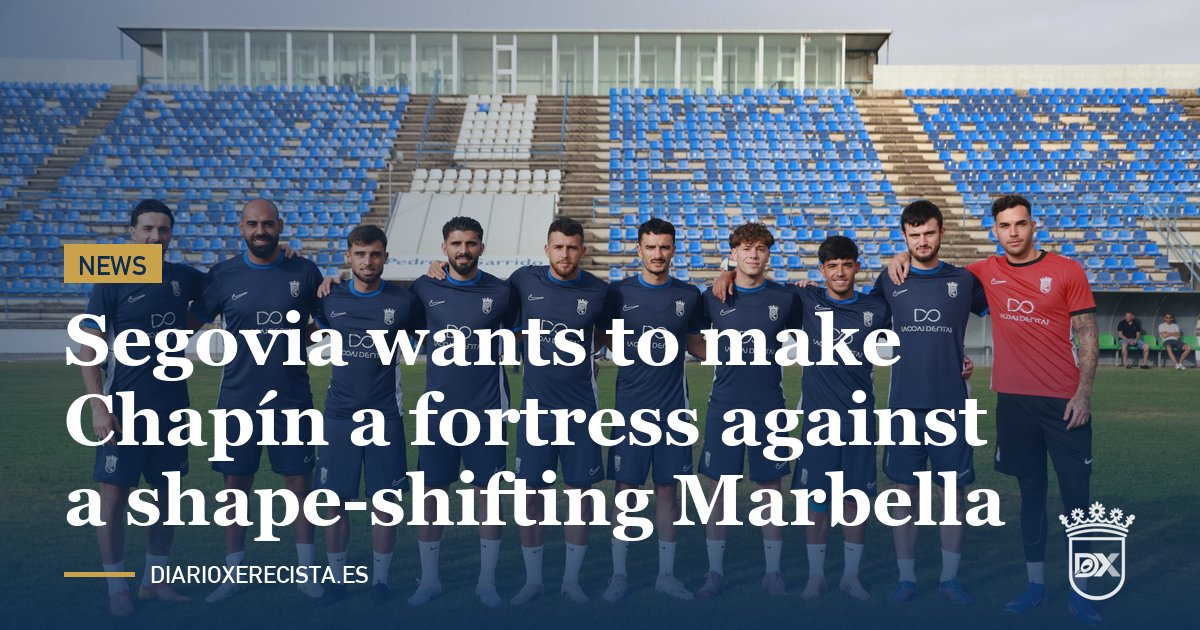
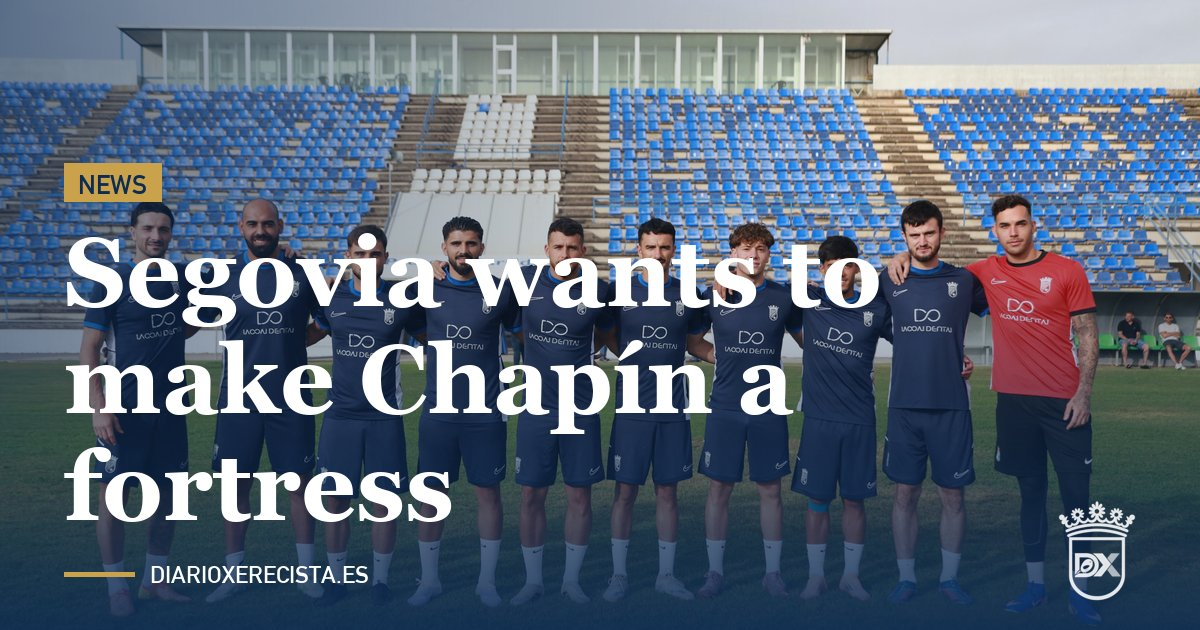
art101: titular más corto, Segovia quiere hacer de Chapín un fortín (ES/EN)

Changed region(s): [[0.0308, 0.3619, 0.8325, 0.8746], [0.0308, 0.2413, 0.1542, 0.3317]]

diff --git a/noticias/articulos/2026-10/segovia-quiere-hacer-de-chapin-un-fortin-ante-un-marbella-que-cambia-de-sistema/index.html b/noticias/articulos/2026-10/segovia-quiere-hacer-de-chapin-un-fortin-ante-un-marbella-que-cambia-de-sistema/index.html
@@ -3,7 +3,7 @@
 <head>
 <meta charset="UTF-8">
 <meta name="viewport" content="width=device-width, initial-scale=1.0">
-<title>Segovia quiere hacer de Chapín un fortín ante un Marbella que cambia de sistema | Diario Xerecista</title>
+<title>Segovia quiere hacer de Chapín un fortín | Diario Xerecista</title>
 <meta name="description" content="El entrenador del Xerez CD, Abel Segovia, pidió acierto de cara a portería para el partido del domingo ante el Marbella (19:00, Chapín), un rival directo empatado a 6 puntos. Confirmó la baja de Zelu y la vuelta de Josete, y dejó la Copa del Rey a un lado: &quot;Del miércoles ni hemos hablado ni vamos a hablar&quot;.">
 <meta name="robots" content="index, follow, max-snippet:-1, max-image-preview:large">
 <link rel="canonical" href="https://www.diarioxerecista.es/noticias/articulos/2026-10/segovia-quiere-hacer-de-chapin-un-fortin-ante-un-marbella-que-cambia-de-sistema/">
@@ -13,7 +13,7 @@
 
 <meta property="og:type" content="article">
 <meta property="og:site_name" content="Diario Xerecista">
-<meta property="og:title" content="Segovia quiere hacer de Chapín un fortín ante un Marbella que cambia de sistema">
+<meta property="og:title" content="Segovia quiere hacer de Chapín un fortín">
 <meta property="og:description" content="El entrenador del Xerez CD, Abel Segovia, pidió acierto de cara a portería para el partido del domingo ante el Marbella (19:00, Chapín), un rival directo empatado a 6 puntos. Confirmó la baja de Zelu y la vuelta de Josete, y dejó la Copa del Rey a un lado: &quot;Del miércoles ni hemos hablado ni vamos a hablar&quot;.">
 <meta property="og:url" content="https://www.diarioxerecista.es/noticias/articulos/2026-10/segovia-quiere-hacer-de-chapin-un-fortin-ante-un-marbella-que-cambia-de-sistema/">
 <meta property="og:image" content="https://www.diarioxerecista.es/fotos/redes/art101-es.jpg">
@@ -22,7 +22,7 @@
 <meta property="og:locale" content="es_ES">
 
 <meta name="twitter:card" content="summary_large_image">
-<meta name="twitter:title" content="Segovia quiere hacer de Chapín un fortín ante un Marbella que cambia de sistema">
+<meta name="twitter:title" content="Segovia quiere hacer de Chapín un fortín">
 <meta name="twitter:description" content="El entrenador del Xerez CD, Abel Segovia, pidió acierto de cara a portería para el partido del domingo ante el Marbella (19:00, Chapín), un rival directo empatado a 6 puntos. Confirmó la baja de Zelu y la vuelta de Josete, y dejó la Copa del Rey a un lado: &quot;Del miércoles ni hemos hablado ni vamos a hablar&quot;.">
 <meta name="twitter:image" content="https://www.diarioxerecista.es/fotos/redes/art101-es.jpg">
 
@@ -35,7 +35,7 @@
 {
   "@context": "https://schema.org",
   "@type": "NewsArticle",
-  "headline": "Segovia quiere hacer de Chapín un fortín ante un Marbella que cambia de sistema",
+  "headline": "Segovia quiere hacer de Chapín un fortín",
   "description": "El entrenador del Xerez CD, Abel Segovia, pidió acierto de cara a portería para el partido del domingo ante el Marbella (19:00, Chapín), un rival directo empatado a 6 puntos. Confirmó la baja de Zelu y la vuelta de Josete, y dejó la Copa del Rey a un lado: \"Del miércoles ni hemos hablado ni vamos a hablar\".",
   "image": [
     "https://www.diarioxerecista.es/fotos/publicadas/xerez-cd-primer-entreno-pretemporada-2026-27.jpg"
@@ -75,7 +75,7 @@
 
   <main class="n-article">
     <span class="eyebrow">Segunda RFEF · Jornada 8</span>
-    <h1>Segovia quiere hacer de Chapín un fortín ante un Marbella que cambia de sistema</h1>
+    <h1>Segovia quiere hacer de Chapín un fortín</h1>
 
     <div class="n-photo">
       <img src="../../../../fotos/publicadas/xerez-cd-primer-entreno-pretemporada-2026-27.jpg" alt="Jugadores del Xerez CD posan en el césped de un estadio" loading="lazy">
@@ -106,7 +106,7 @@
 
     <div class="n-meta-row">
       <span class="byline">Redacción — 23 de octubre de 2026</span>
-      <a href="https://x.com/intent/tweet?text=Segovia%20quiere%20hacer%20de%20Chap%C3%ADn%20un%20fort%C3%ADn%20ante%20un%20Marbella%20que%20cambia%20de%20sistema%0A%0Ahttps%3A%2F%2Fwww.diarioxerecista.es%2Fnoticias%2Farticulos%2F2026-10%2Fsegovia-quiere-hacer-de-chapin-un-fortin-ante-un-marbella-que-cambia-de-sistema%2F%0A%0A%23XerezCD" target="_blank" rel="noopener" class="share-x-btn">Compartir en 𝕏</a>
+      <a href="https://x.com/intent/tweet?text=Segovia%20quiere%20hacer%20de%20Chap%C3%ADn%20un%20fort%C3%ADn%0A%0Ahttps%3A%2F%2Fwww.diarioxerecista.es%2Fnoticias%2Farticulos%2F2026-10%2Fsegovia-quiere-hacer-de-chapin-un-fortin-ante-un-marbella-que-cambia-de-sistema%2F%0A%0A%23XerezCD" target="_blank" rel="noopener" class="share-x-btn">Compartir en 𝕏</a>
     </div>
 
     <a class="back-link" href="../../../../en/noticias/articulos/2026-10/segovia-wants-to-make-chapin-a-fortress-against-a-shape-shifting-marbella/" style="display:block;margin-bottom:10px;">🇬🇧 Read in English</a>

diff --git a/en/noticias/articulos/2026-10/segovia-wants-to-make-chapin-a-fortress-against-a-shape-shifting-marbella/index.html b/en/noticias/articulos/2026-10/segovia-wants-to-make-chapin-a-fortress-against-a-shape-shifting-marbella/index.html
@@ -3,7 +3,7 @@
 <head>
 <meta charset="UTF-8">
 <meta name="viewport" content="width=device-width, initial-scale=1.0">
-<title>Segovia wants to make Chapín a fortress against a shape-shifting Marbella | Diario Xerecista</title>
+<title>Segovia wants to make Chapín a fortress | Diario Xerecista</title>
 <meta name="description" content="Xerez CD head coach Abel Segovia called for sharper finishing for Sunday's match against Marbella (19:00, Chapín), a direct rival level on 6 points. He confirmed that Zelu will miss out and that Josete is back, and set the Copa del Rey aside: &quot;We haven't talked about Wednesday and we're not going to&quot;.">
 <meta name="robots" content="index, follow, max-snippet:-1, max-image-preview:large">
 <link rel="canonical" href="https://www.diarioxerecista.es/en/noticias/articulos/2026-10/segovia-wants-to-make-chapin-a-fortress-against-a-shape-shifting-marbella/">
@@ -13,7 +13,7 @@
 
 <meta property="og:type" content="article">
 <meta property="og:site_name" content="Diario Xerecista">
-<meta property="og:title" content="Segovia wants to make Chapín a fortress against a shape-shifting Marbella">
+<meta property="og:title" content="Segovia wants to make Chapín a fortress">
 <meta property="og:description" content="Xerez CD head coach Abel Segovia called for sharper finishing for Sunday's match against Marbella (19:00, Chapín), a direct rival level on 6 points. He confirmed that Zelu will miss out and that Josete is back, and set the Copa del Rey aside: &quot;We haven't talked about Wednesday and we're not going to&quot;.">
 <meta property="og:url" content="https://www.diarioxerecista.es/en/noticias/articulos/2026-10/segovia-wants-to-make-chapin-a-fortress-against-a-shape-shifting-marbella/">
 <meta property="og:image" content="https://www.diarioxerecista.es/fotos/redes/art101-en.jpg">
@@ -22,7 +22,7 @@
 <meta property="og:locale" content="en_GB">
 
 <meta name="twitter:card" content="summary_large_image">
-<meta name="twitter:title" content="Segovia wants to make Chapín a fortress against a shape-shifting Marbella">
+<meta name="twitter:title" content="Segovia wants to make Chapín a fortress">
 <meta name="twitter:description" content="Xerez CD head coach Abel Segovia called for sharper finishing for Sunday's match against Marbella (19:00, Chapín), a direct rival level on 6 points. He confirmed that Zelu will miss out and that Josete is back, and set the Copa del Rey aside: &quot;We haven't talked about Wednesday and we're not going to&quot;.">
 <meta name="twitter:image" content="https://www.diarioxerecista.es/fotos/redes/art101-en.jpg">
 
@@ -35,7 +35,7 @@
 {
   "@context": "https://schema.org",
   "@type": "NewsArticle",
-  "headline": "Segovia wants to make Chapín a fortress against a shape-shifting Marbella",
+  "headline": "Segovia wants to make Chapín a fortress",
   "description": "Xerez CD head coach Abel Segovia called for sharper finishing for Sunday's match against Marbella (19:00, Chapín), a direct rival level on 6 points. He confirmed that Zelu will miss out and that Josete is back, and set the Copa del Rey aside: \"We haven't talked about Wednesday and we're not going to\".",
   "image": [
     "https://www.diarioxerecista.es/fotos/publicadas/xerez-cd-primer-entreno-pretemporada-2026-27.jpg"
@@ -75,7 +75,7 @@
 
   <main class="n-article">
     <span class="eyebrow">Segunda RFEF · Matchday 8</span>
-    <h1>Segovia wants to make Chapín a fortress against a shape-shifting Marbella</h1>
+    <h1>Segovia wants to make Chapín a fortress</h1>
 
     <div class="n-photo">
       <img src="../../../../../fotos/publicadas/xerez-cd-primer-entreno-pretemporada-2026-27.jpg" alt="Xerez CD players pose on the pitch of a stadium" loading="lazy">
@@ -106,7 +106,7 @@
 
     <div class="n-meta-row">
       <span class="byline">Newsroom — 23 October 2026</span>
-      <a href="https://x.com/intent/tweet?text=Segovia%20wants%20to%20make%20Chap%C3%ADn%20a%20fortress%20against%20a%20shape-shifting%20Marbella%0A%0Ahttps%3A%2F%2Fwww.diarioxerecista.es%2Fen%2Fnoticias%2Farticulos%2F2026-10%2Fsegovia-wants-to-make-chapin-a-fortress-against-a-shape-shifting-marbella%2F%0A%0A%23XerezCD" target="_blank" rel="noopener" class="share-x-btn">Share on 𝕏</a>
+      <a href="https://x.com/intent/tweet?text=Segovia%20wants%20to%20make%20Chap%C3%ADn%20a%20fortress%0A%0Ahttps%3A%2F%2Fwww.diarioxerecista.es%2Fen%2Fnoticias%2Farticulos%2F2026-10%2Fsegovia-wants-to-make-chapin-a-fortress-against-a-shape-shifting-marbella%2F%0A%0A%23XerezCD" target="_blank" rel="noopener" class="share-x-btn">Share on 𝕏</a>
     </div>
 
     <a class="back-link" href="../../../../../noticias/articulos/2026-10/segovia-quiere-hacer-de-chapin-un-fortin-ante-un-marbella-que-cambia-de-sistema/" style="display:block;margin-bottom:10px;">🇪🇸 Leer en español</a>
